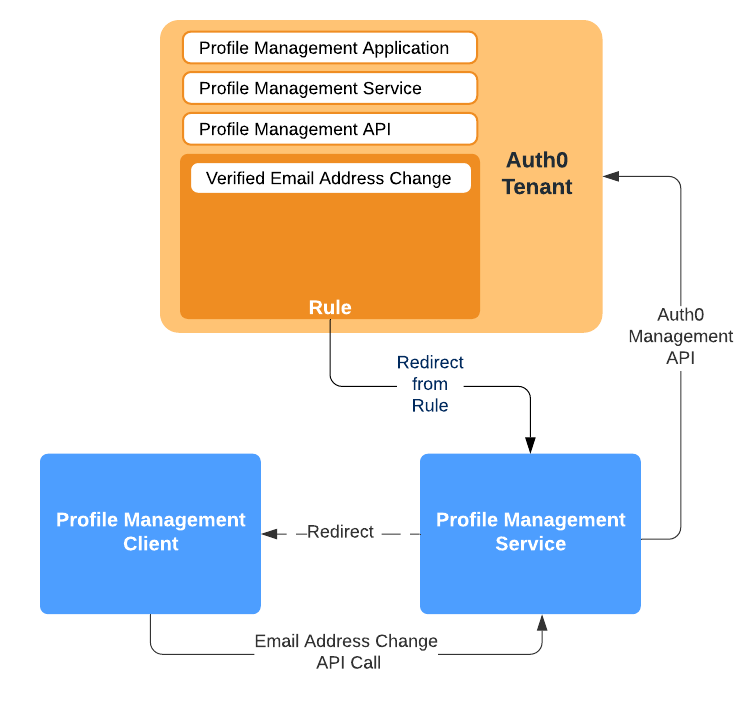
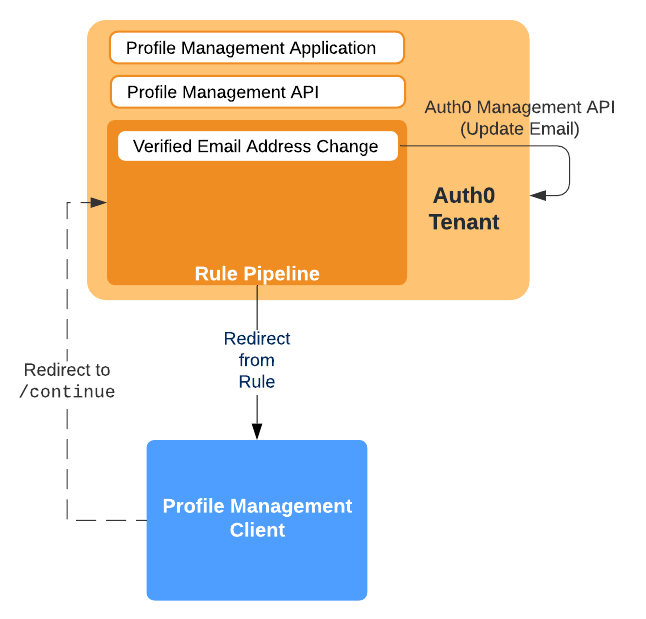
Content update

diff --git a/Profile/README.md b/Profile/README.md
@@ -10,13 +10,6 @@ This section of the repository contains reference implementation for the Profile
 
 The [`client`](client) folder contains reference [Node.js](https://nodejs.org/en/) implementation for the interactive Profile Client application which provides the User Interface Experience (UI/UX) as part of Verified Email Address Change [Redirect](https://docs.google.com/document/d/1DtjpHFTwK6wN0B6BlaaXpbIFbU0BlUagDlymP0RGZgw/edit#bookmark=id.v0omkqzfjvqw) processing. For further details please refer to the [readme](Client) contained in the folder.
 
-## Service
-
-The [`service`](service) folder contains reference [Node.js](https://nodejs.org/en/) implementation for the Profile Service which provides backend processing as part of Verified Email Address Change [Redirect](https://docs.google.com/document/d/1DtjpHFTwK6wN0B6BlaaXpbIFbU0BlUagDlymP0RGZgw/edit#bookmark=id.v0omkqzfjvqw) processing. For further details please refer to the [readme](service) contained in the folder.
-
-
- and the [Express](https://expressjs.com/) framework
-
 ## Issue Reporting
 
 If you have found a bug or if you have a feature request, please report them via the issues section of this repository. Please do not report security vulnerabilities on the public GitHub issue tracker. The [Responsible Disclosure Program](https://auth0.com/whitehat) details the procedure for disclosing security issues.
